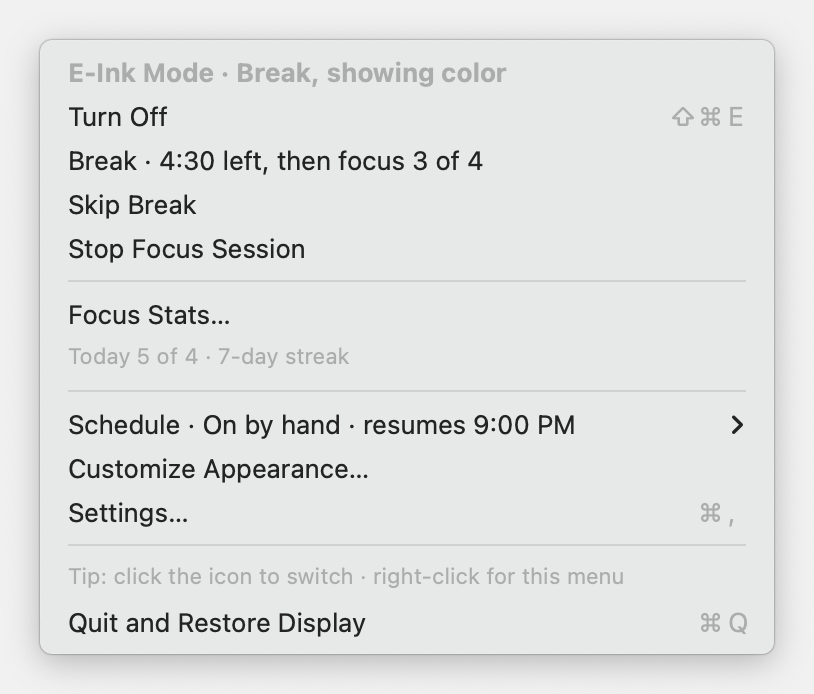
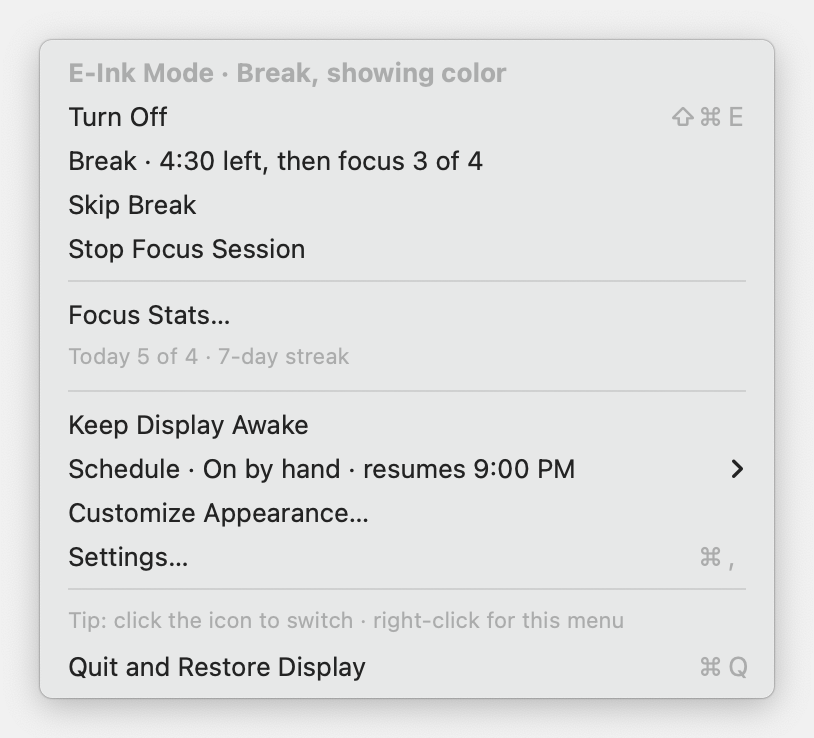
Keep Display Awake in the menu — 0.10.0-beta.3
A checkable menu item (and Settings → General → Display sleep) that stops
the display sleeping and the screen saver starting, whether or not E-Ink
Mode is on.

It's a power assertion owned by the running app (kIOPMAssertPreventUser-
IdleDisplaySleep), not a captured system setting, so it stays out of the
restoration journal: quitting, logging out, or a crash releases it and
nothing is left behind. The choice is remembered in UserDefaults and
re-held at launch.

Tests cover the simulated bookkeeping and check that macOS really
registers the assertion while held and drops it on release. Menu and
General-settings screenshots regenerated.

diff --git a/Sources/EinkBar/AppModel.swift b/Sources/EinkBar/AppModel.swift
@@ -37,7 +37,10 @@ final class AppModel: ObservableObject {
     @Published var autoCheckUpdates = UserDefaults.standard.object(forKey: "autoCheckUpdates") as? Bool ?? true {
         didSet { UserDefaults.standard.set(autoCheckUpdates, forKey: "autoCheckUpdates") }
     }
+    /// Whether the display is being held awake right now. Changed through `setKeepAwake`.
+    @Published private(set) var keepAwake = false
     let controller: Controller
+    private let awake = DisplayAwake.shared
     private let work = DispatchQueue(label: "local.eink.operations")
     private var pending = 0
     private var previewTimer: Timer?
@@ -55,6 +58,7 @@ final class AppModel: ObservableObject {
     var hasBrightness: Bool { status?.system.values.keys.contains { $0.hasPrefix("brightness:") } == true }
 
     func load() {
+        if UserDefaults.standard.bool(forKey: "keepAwake") { setKeepAwake(true) }
         perform(checkLegacy: false, quiet: true) {
             let status = try self.controller.status()
             DispatchQueue.main.async { self.needsRecovery = status.active }
@@ -103,6 +107,14 @@ final class AppModel: ObservableObject {
     func skipBreak() { perform { try self.controller.skipBreak() } }
     func startColor(minutes: Double = 5) { perform { try self.controller.startTemporaryColor(for: minutes * 60) } }
     func endColor() { perform { try self.controller.endTemporaryColor() } }
+    /// Holds or drops the display-sleep assertion, and remembers the choice for the next launch.
+    /// Quitting always drops it, so nothing is left behind on the Mac.
+    func setKeepAwake(_ on: Bool) {
+        if let problem = awake.hold(on) { error = problem; onUserError?(problem) }
+        keepAwake = awake.held
+        UserDefaults.standard.set(keepAwake, forKey: "keepAwake")
+        changed?()
+    }
     func change(_ update: @escaping (inout Configuration) throws -> Void) { perform { try self.controller.edit(update) } }
     func restoreDisplay() {
         perform {

diff --git a/Sources/EinkMac/DisplayAwake.swift b/Sources/EinkMac/DisplayAwake.swift
@@ -1,0 +1,38 @@
+import Foundation
+import IOKit.pwr_mgt
+
+/// Keeps the display from sleeping (and the screen saver from starting) while held.
+///
+/// This is a power assertion owned by the running process, not a saved system setting: macOS
+/// drops it when E-Ink Mode quits or crashes, so this can never leave a Mac awake behind us.
+/// Closing the lid or choosing Sleep still sleeps the Mac.
+public final class DisplayAwake {
+    public static let shared = DisplayAwake()
+    private let simulated: Bool
+    private var assertion: IOPMAssertionID = IOPMAssertionID(0)
+    public private(set) var held = false
+
+    public init(simulated: Bool = ProcessInfo.processInfo.environment["EINK_SIMULATED"] == "1") {
+        self.simulated = simulated
+    }
+
+    /// Takes or drops the assertion. Returns a message to show the person if macOS refused; `nil` on success.
+    /// Repeating the current state is a no-op, so one assertion is held at a time.
+    @discardableResult
+    public func hold(_ on: Bool, reason: String = "E-Ink Mode is keeping the display awake") -> String? {
+        guard on != held else { return nil }
+        guard !simulated else { held = on; return nil }
+        if on {
+            var id = IOPMAssertionID(0)
+            let result = IOPMAssertionCreateWithName(kIOPMAssertPreventUserIdleDisplaySleep as CFString,
+                                                     IOPMAssertionLevel(kIOPMAssertionLevelOn), reason as CFString, &id)
+            guard result == kIOReturnSuccess else { return "macOS wouldn't let E-Ink Mode keep the display awake." }
+            assertion = id
+        } else {
+            IOPMAssertionRelease(assertion)
+            assertion = IOPMAssertionID(0)
+        }
+        held = on
+        return nil
+    }
+}

diff --git a/Tests/EinkCoreTests/DisplayAwakeTests.swift b/Tests/EinkCoreTests/DisplayAwakeTests.swift
@@ -1,0 +1,31 @@
+import XCTest
+import EinkMac
+
+final class DisplayAwakeTests: XCTestCase {
+    func testSimulatedHoldTracksStateWithoutTouchingTheMac() {
+        let awake = DisplayAwake(simulated: true)
+        XCTAssertFalse(awake.held)
+        XCTAssertNil(awake.hold(true)); XCTAssertTrue(awake.held)
+        XCTAssertNil(awake.hold(true)); XCTAssertTrue(awake.held) // repeating is a no-op
+        XCTAssertNil(awake.hold(false)); XCTAssertFalse(awake.held)
+        XCTAssertNil(awake.hold(false)); XCTAssertFalse(awake.held)
+    }
+    /// The real assertion is what stops display sleep, so check macOS actually registers and drops it.
+    func testRealAssertionIsRegisteredThenReleased() throws {
+        let reason = "E-Ink Mode test assertion \(UUID().uuidString)"
+        let awake = DisplayAwake(simulated: false)
+        XCTAssertNil(awake.hold(true, reason: reason))
+        XCTAssertTrue(try assertions().contains(reason), "macOS did not register the display-sleep assertion")
+        XCTAssertNil(awake.hold(false, reason: reason))
+        XCTAssertFalse(try assertions().contains(reason), "the assertion outlived its release")
+    }
+    private func assertions() throws -> String {
+        let process = Process(); process.executableURL = URL(fileURLWithPath: "/usr/bin/pmset")
+        process.arguments = ["-g", "assertions"]
+        let pipe = Pipe(); process.standardOutput = pipe; process.standardError = FileHandle.nullDevice
+        try process.run()
+        let output = pipe.fileHandleForReading.readDataToEndOfFile()
+        process.waitUntilExit()
+        return String(decoding: output, as: UTF8.self)
+    }
+}

diff --git a/Sources/EinkBar/main.swift b/Sources/EinkBar/main.swift
@@ -111,7 +111,8 @@ final class AppDelegate: NSObject, NSApplicationDelegate, NSMenuDelegate {
         else { button.image = NSImage(systemSymbolName: shade?.symbol ?? "exclamationmark.circle", accessibilityDescription: label) }
         button.title = countdownText
         button.font = NSFont.monospacedDigitSystemFont(ofSize: NSFont.systemFontSize, weight: .regular)
-        button.toolTip = label + (model.clickToFlip ? " — click to switch, right-click for menu" : "")
+        button.toolTip = label + (model.keepAwake ? " — display staying awake" : "")
+            + (model.clickToFlip ? " — click to switch, right-click for menu" : "")
     }
 
     @objc private func statusItemPressed() {
@@ -238,6 +239,7 @@ final class AppDelegate: NSObject, NSApplicationDelegate, NSMenuDelegate {
         showHint(message)
     }
     @objc func endColor() { model.endColor() }
+    @objc func toggleKeepAwake() { model.setKeepAwake(!model.keepAwake) }
     @objc func restoreDisplay() { model.restoreDisplay() }
     @objc func resumeSession() { model.recover(resume: true) }
     @objc func showError() { if let error = model.error { presentError(error) } }
@@ -390,6 +392,7 @@ final class AppDelegate: NSObject, NSApplicationDelegate, NSMenuDelegate {
             do {
                 try model.controller.shutdown(resumeScheduleOnLaunch: poweringOff)
                 terminating = true; pollTimer?.invalidate(); secondTimer?.invalidate(); hotkeys?.unregister()
+                DisplayAwake.shared.hold(false)
                 return .terminateNow
             } catch {
                 let alert = NSAlert(); alert.alertStyle = .critical

diff --git a/Sources/EinkBar/MenuBuilder.swift b/Sources/EinkBar/MenuBuilder.swift
@@ -9,7 +9,7 @@ struct LiveMenuItems {
 
 /// Builds the status menu:
 ///   E-Ink Mode · On / Turn off / Color for 5 minutes
-///   Schedule · Until 7:00 AM / Customize appearance… / Settings…
+///   Keep Display Awake / Schedule · Until 7:00 AM / Customize appearance… / Settings…
 ///   Quit and restore display
 enum MenuBuilder {
     static func build(_ menu: NSMenu, model: AppModel, target: AnyObject, live: inout LiveMenuItems) {
@@ -82,6 +82,10 @@ enum MenuBuilder {
         }
 
         menu.addItem(.separator())
+        let awake = add("Keep Display Awake", #selector(AppDelegate.toggleKeepAwake))
+        awake.state = model.keepAwake ? .on : .off
+        awake.toolTip = "Stops the display sleeping and the screen saver starting. Quitting always releases it."
+        if model.keepAwake { note("Your display stays on until you switch this off.") }
         if let summary = model.schedule {
             let schedule = add("Schedule · \(summary.short)", nil)
             schedule.isEnabled = true

diff --git a/Sources/EinkBar/SettingsView.swift b/Sources/EinkBar/SettingsView.swift
@@ -206,6 +206,10 @@ struct GeneralSettings: View {
                 }
                 Hint("Swaps the dot for a wildcat. Both follow the same rule: unshaded in color, shaded in grayscale, half-shaded during temporary color. Go 'Cats!")
             }
+            Section("Display sleep") {
+                Toggle("Keep the display awake", isOn: Binding(get: { model.keepAwake }, set: model.setKeepAwake))
+                Hint("Stops the display sleeping and the screen saver starting — useful while reading. Also in the menu. It lasts until you switch it off; quitting E-Ink Mode releases it. On battery, expect a shorter charge.")
+            }
             Section("Keyboard shortcut") {
                 Picker("Switch on and off", selection: Binding(get: { shortcut }, set: { shortcut = $0; actions.setShortcut($0) })) {
                     ForEach(Shortcut.presets) { Text($0.symbol).tag($0.id) }

diff --git a/Package.swift b/Package.swift
@@ -8,5 +8,5 @@ let package = Package(
         .target(name: "EinkMac", dependencies: ["EinkCore"]),
         .executableTarget(name: "eink", dependencies: ["EinkCore", "EinkMac"]),
         .executableTarget(name: "EinkBar", dependencies: ["EinkCore", "EinkMac"]),
-        .testTarget(name: "EinkCoreTests", dependencies: ["EinkCore"])
+        .testTarget(name: "EinkCoreTests", dependencies: ["EinkCore", "EinkMac"])
     ])

diff --git a/docs/USER-GUIDE.md b/docs/USER-GUIDE.md
@@ -42,7 +42,7 @@ Choose **Turn On E-Ink Mode**, or **Not Now** to decide later. You can reopen th
 
 Click the E-Ink Mode icon (**○** or **●**) in the menu bar. The mode and the main switch come first, and everything else sits below.
 
-<p align="center"><img src="img/menu-on.png" width="375" alt="Menu: E-Ink Mode · On, Turn Off, Color for 5 Minutes, Start Focus, Focus Stats…, today's progress, Schedule · Until 7:00 AM, Customize Appearance…, Settings…, Quit and Restore Display"></p>
+<p align="center"><img src="img/menu-on.png" width="375" alt="Menu: E-Ink Mode · On, Turn Off, Color for 5 Minutes, Start Focus, Focus Stats…, today's progress, Keep Display Awake, Schedule, Customize Appearance…, Settings…, Quit and Restore Display"></p>
 
 | Menu item | What it does |
 |---|---|
@@ -51,9 +51,10 @@ Click the E-Ink Mode icon (**○** or **●**) in the menu bar. The mode and the
 | **Color for 5 Minutes** | Brings color back briefly, then returns to grayscale by itself. |
 | **Start Focus · 4 × 25 min** | Starts a round of focus sessions with color breaks ([below](#focus-sessions-and-daily-stats)). |
 | **Focus Stats…** | Your daily tracker. The line below it shows today's count and your streak. |
+| **Keep Display Awake** | Stops the display sleeping while it's checked ([below](#keep-display-awake)). |
 | **Schedule · …** | What the schedule will do next, such as *Until 7:00 AM* or *Turns on tonight at 9:00 PM*. |
 | **Customize Appearance…** | Grayscale, dimming, Dock, motion, and transparency. |
-| **Settings…** | Click behavior, keyboard shortcut, login, and updates. |
+| **Settings…** | Click behavior, display sleep, keyboard shortcut, login, and updates. |
 | **Quit and Restore Display** | Puts everything back and closes the app. |
 
 ### Reading the icon
@@ -121,6 +122,14 @@ Checking a photo, a chart, or a color-coded calendar? Choose **Color for 5 Minut
 
 When time is up, grayscale returns automatically, even if your Mac was asleep in the meantime. Your saved settings are never changed by temporary color.
 
+## Keep display awake
+
+Reading a long page without touching the keyboard? Choose **Keep Display Awake** in the menu. While it's checked, your display won't sleep and the screen saver won't start, whether or not E-Ink Mode itself is on. The same switch is in **Settings → General → Display sleep**.
+
+- **It lasts until you switch it off.** The menu keeps a checkmark beside it and says *Your display stays on until you switch this off.* Your choice is remembered the next time the app opens.
+- **Quitting always releases it.** macOS ties the hold to the running app, so quitting, logging out, or even a crash hands display sleep straight back to your energy settings — nothing to undo.
+- **It doesn't override everything.** Closing the lid, choosing Sleep, or your Mac's own display-off shortcut still work as usual. On battery, expect a shorter charge while it's on.
+
 ## Evening schedule
 
 Let E-Ink Mode turn on in the evening and off in the morning. Pick **Schedule → Evening · 9:00 PM – 7:00 AM** from the menu, or choose your own times in **Settings → Schedule**.
@@ -151,12 +160,13 @@ Everything beyond grayscale is optional and **off by default**. Changes apply im
 
 ## Settings
 
-<p align="center"><img src="img/settings-general.png" width="516" alt="General settings: click behavior, keyboard shortcut, open at login, version and updates, help"></p>
+<p align="center"><img src="img/settings-general.png" width="516" alt="General settings: click behavior, wildcat mode, keep the display awake, keyboard shortcut, open at login, version and updates, help"></p>
 
 - **Menu bar icon:** choose whether a click opens the menu or switches the mode.
 - **Wildcat mode:** swaps the dot for a wildcat head. The shading is the same: outlined in color, filled in grayscale, half-filled during temporary color ([Reading the icon](#reading-the-icon)). The countdown still shows beside it during focus sessions. Go 'Cats!
 
   *The wildcat is original artwork in the spirit of the Northwestern Wildcats. It isn't the official Willie the Wildcat mascot.*
+- **Display sleep:** *Keep the display awake* is the same switch as **Keep Display Awake** in the menu ([above](#keep-display-awake)).
 - **Keyboard shortcut:** ⌘⇧E by default. Choose ⌃⌥⌘E, ⌃⌥E, ⌃⌥⌘G, or none. If another app already uses the shortcut, the app says so right there, so you can pick a different one.
 - **Open E-Ink Mode at login:** needed for schedules. macOS may ask you to approve it in *System Settings → General → Login Items*.
 - **Updates:** shows your **version** and checks for new versions automatically. When an update is available, it also appears in the menu. **Install and Relaunch** restores your display, installs the update, and reopens the app, back on if it was on.

diff --git a/docs/QA.md b/docs/QA.md
@@ -2,7 +2,7 @@
 
 ## Automated
 
-`./scripts/test.sh` runs 66 core tests and process-level CLI tests against an isolated simulated system (`EINK_SIMULATED=1`). Coverage:
+`./scripts/test.sh` runs 68 core tests and process-level CLI tests against an isolated simulated system (`EINK_SIMULATED=1`). Coverage:
 
 - **Restoration:** exact per-display capture and restore, pre-existing accessibility settings, idempotent activation, partial failures and rollback, retry after restart, corrupt journal and config, restore with a damaged config, and never clearing settings the app didn't set.
 - **Temporary color:** lifts grayscale only, leaves the saved profile untouched, cancels early, expires on tick, catches up after sleep, clears when turned off, honors expiry across a crash and resume, and edits during color.
@@ -11,6 +11,7 @@
 - **Schedule:** boundaries, DST skipped and repeated hours, catch-up, manual overrides across restarts, quit pausing versus logout resuming, and plain-language status (*tonight*, *this morning*, *tomorrow*, manual override).
 - **Focus sessions:** grayscale focus and color breaks, the rest of the profile kept, round completion and ownership of the mode, catch-up across several phases after sleep, stopping early with credited minutes, turning off mid-round, skipping breaks, color peeks mid-focus that keep the timer running (and are refused on breaks), a daily goal that defaults to 4 and can be changed, the schedule deferring to a round, settings edits not disrupting a round, surviving a restart, validation, and old config files without focus settings.
 - **Stats:** streaks from today or yesterday, gaps, best streak, week labels, totals, best day, days the goal was met, and each motivational message.
+- **Keep display awake:** the power assertion is registered with macOS while held and gone once released; repeating a hold or a release is a no-op.
 - **Updates:** semantic version and pre-release ordering, release feed selection (drafts, missing archives, invalid tags), and bundle swap with rollback when the replacement is missing.
 - **CLI:** settings, validation, concurrency (48 mode commands and concurrent edits), temporary color, the evening preset, `version`, and recovery.
 
@@ -42,6 +43,11 @@ Grayscale must be checked **with your eyes**. API readback doesn't prove pixels 
 9. **Color for 5 Minutes**: the countdown ticks live in the open menu, dimming and Dock stay, **Resume grayscale** works early, and expiry returns grayscale within about a second. Sleep past the expiry and wake: it's grayscale.
 10. Click-to-flip: a quick click toggles; long press, right-click, and Control-click open the menu; dragging off does nothing. The hint appears when you enable it.
 11. The shortcut switches from other apps. Choose each preset, then **None**. A conflicting shortcut shows the *already taken* message.
+
+### Keep display awake
+11a. Set **System Settings → Lock Screen → Turn display off** to 1 minute. Choose **Keep Display Awake**: `pmset -g assertions` lists *PreventUserIdleDisplaySleep* named for E-Ink Mode, and the display stays on past a minute of no input. The menu shows a checkmark and the line *Your display stays on until you switch this off*.
+11b. Switch it off: the assertion disappears from `pmset -g assertions` and the display sleeps on schedule again. Switch it on, quit the app, and check `pmset` again — quitting releases it.
+11c. With it on, quit and reopen the app: the checkmark is back and the assertion is held again. Closing the lid still sleeps the Mac.
 
 ### Schedule
 12. **Evening** preset: before 9 PM the menu shows *Turns on tonight at 9:00 PM*. Custom times a few minutes ahead: it turns on and off at the boundaries.

diff --git a/README.md b/README.md
@@ -8,7 +8,7 @@ For macOS 13 Ventura or newer · Apple silicon and Intel · **Beta**
 
 [Download](https://github.com/marcveihl/eink-mode/releases/latest) · [User guide](docs/USER-GUIDE.md) · [Changelog](CHANGELOG.md) · [Roadmap](docs/ROADMAP.md)
 
-<p align="center"><img src="docs/img/menu-on.png" width="375" alt="E-Ink Mode menu with mode toggle, temporary color, focus sessions, and schedule"></p>
+<p align="center"><img src="docs/img/menu-on.png" width="375" alt="E-Ink Mode menu with mode toggle, temporary color, focus sessions, keep display awake, and schedule"></p>
 
 ## What it does
 
@@ -45,6 +45,7 @@ The menu bar icon is **unshaded** while your screen is in color, **shaded** whil
 
 ### And the rest
 
+- **Keep Display Awake:** a switch in the menu that stops the display sleeping and the screen saver starting while you read. It lasts until you switch it off, and quitting always releases it.
 - **Evening schedule:** turn on at 9 PM and off at 7 AM (or your own times). The menu tells you what's next, such as *Turns on tonight at 9:00 PM*, and switching by hand always wins.
 - **Your display always comes back:** your original settings are saved before anything changes. Quitting, logging out, updating, and even a crash all lead back to exactly how your Mac looked before.
 - **Updates built in:** the app checks for new versions and installs them in place.

diff --git a/docs/IMPLEMENTATION.md b/docs/IMPLEMENTATION.md
@@ -9,3 +9,5 @@ Tests exercise public mode/configuration/schedule commands with a simulated syst
 New app and CLI share a Swift core and atomic JSON state. Read legacy config as data, never execute shell. Keep a durable restoration journal before any system changes. A process lock serializes menu, CLI, and scheduler. Failed restoration retains the journal for retry. Unsupported controls are reported explicitly. Legacy active state must be restored using the prototype before using the new app; never invent missing invert or display state.
 
 Beta 0.9 (see CHANGELOG): defaults are grayscale-only; brightness and Dock are opt-in via first-run setup. Temporary color is runtime state (`colorUntil`) that never edits the saved profile. Status menu follows the agreed hierarchy; settings moved to a window. App exceptions and a free-form shortcut recorder are deferred until beta feedback.
+
+Beta 0.10.0-beta.3: **Keep Display Awake** is a menu-bar-app power assertion (`kIOPMAssertPreventUserIdleDisplaySleep`, `Sources/EinkMac/DisplayAwake.swift`), not a captured system setting, so it never enters the restoration journal — macOS releases it when the process ends. The choice is remembered in `UserDefaults` (`keepAwake`) and re-held at launch. The CLI has no equivalent: a short-lived command cannot hold an assertion.

diff --git a/CHANGELOG.md b/CHANGELOG.md
@@ -1,5 +1,10 @@
 # Changelog
 
+## 0.10.0-beta.3 (Keep display awake)
+
+- **Keep Display Awake** in the menu (and **Settings → General → Display sleep**): while it's checked, the display won't sleep and the screen saver won't start, whether or not E-Ink Mode is on. Useful for reading a long page without touching the keyboard.
+- It lasts until you switch it off and is remembered for the next launch. macOS ties the hold to the running app, so quitting, logging out, or a crash releases it — nothing is left behind. Closing the lid still sleeps the Mac.
+
 ## 0.10.0-beta.2 (Icon parity)
 
 - **One rule for the menu bar icon:** unshaded while your screen is in color (off), shaded while it's grayscale (on or focusing), and half-shaded during temporary color (a color peek or a focus break). The standard dot is now ○ / ● / ◐, and Wildcat mode matches it. Focus sessions no longer swap in timer or cup symbols; the countdown beside the icon shows a round is running.
